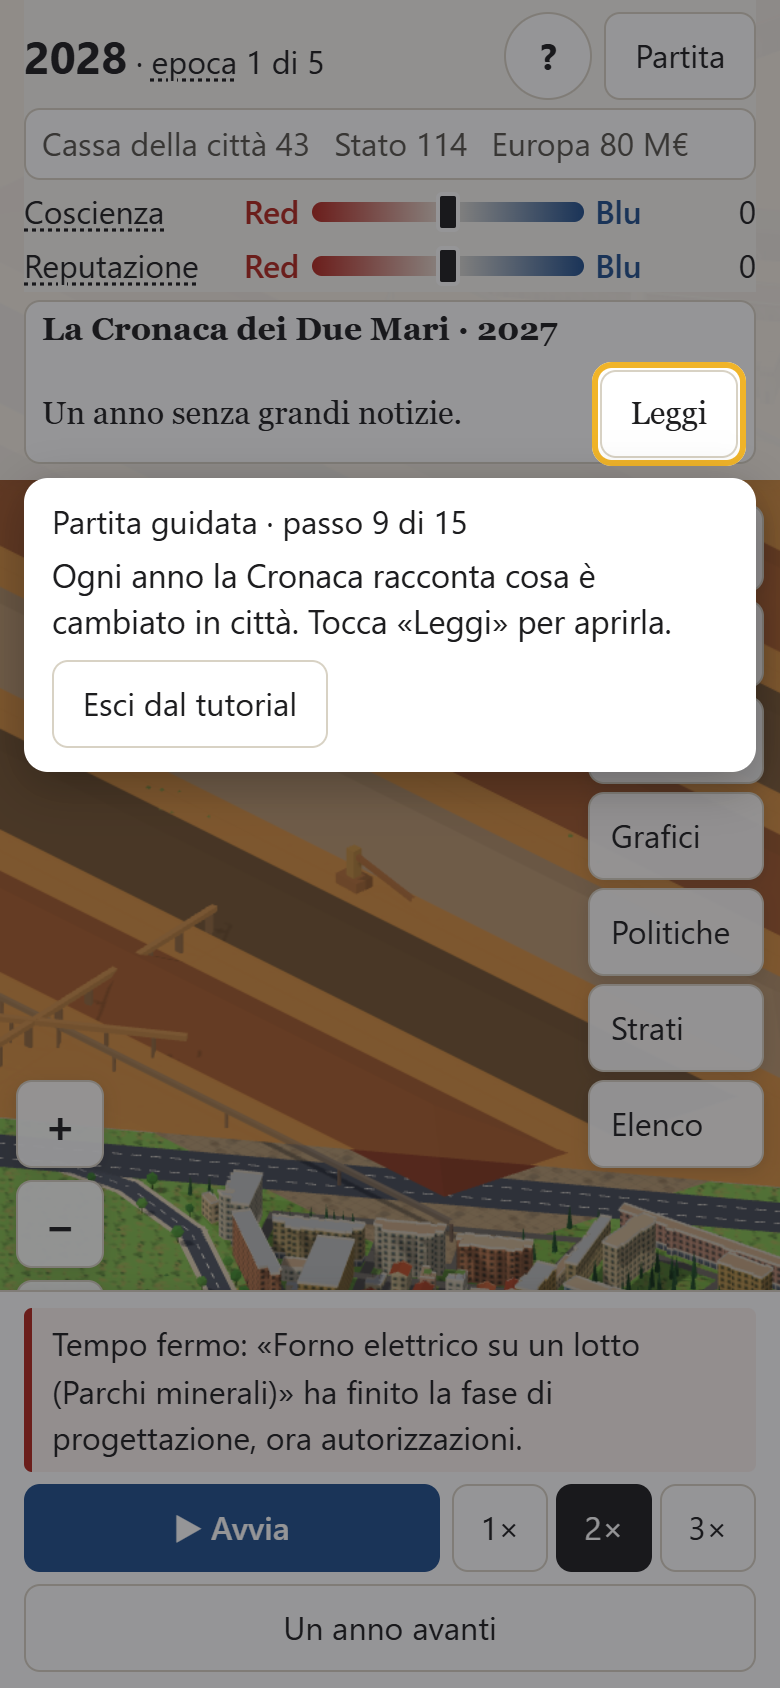
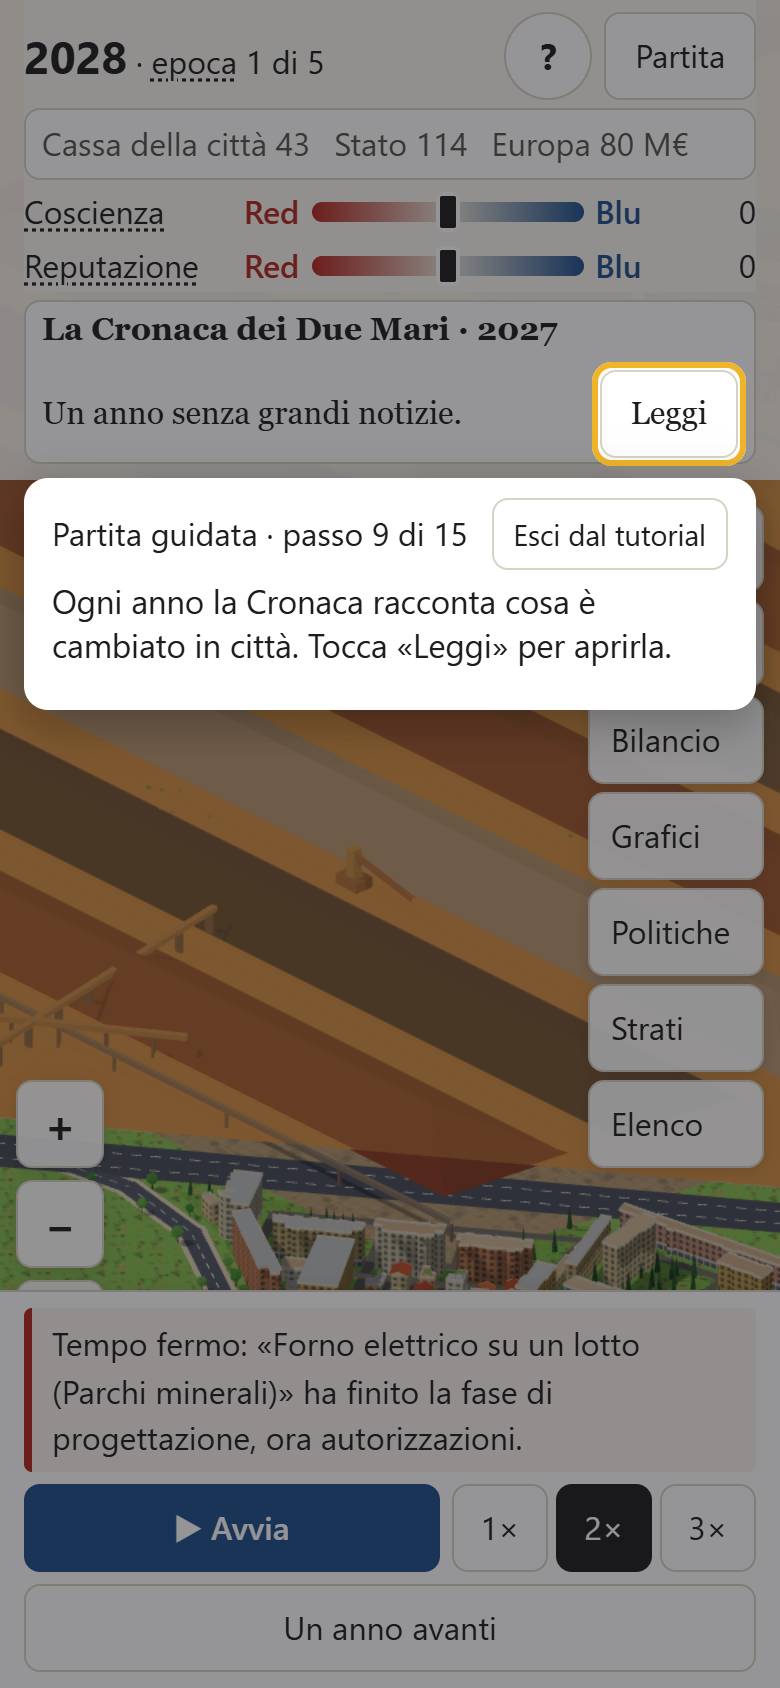
T16: fumetto dentro il dilemma, prove di visibilità, prova del seme più leggera
Nel dilemma il fumetto entra nella finestra tra le opzioni e il pulsante,
così non copre nessuna opzione; «Esci dal tutorial» sta nel titoletto;
il fumetto va sotto il comando se ci sta. La verifica controlla che il
fumetto si veda per intero e non copra le opzioni di un dilemma. Prova del
seme su tutte le strade e su tutti i lotti con meno partite simulate;
tempo di preparazione della prova della città portato a 30 secondi.

Changed region(s): [[0.0308, 0.3081, 0.9846, 0.4621]]

diff --git a/apps/game/src/tutorial.tsx b/apps/game/src/tutorial.tsx
@@ -12,6 +12,7 @@
  */
 import type { GameState } from '@taranto2127/sim';
 import { useCallback, useEffect, useLayoutEffect, useRef, useState } from 'react';
+import { createPortal } from 'react-dom';
 import { content } from './engine.js';
 
 export const tutorial = content.tutorial;
@@ -122,8 +123,13 @@ function cerca(passo: Passo): { el: HTMLElement; testid: string } | null {
   for (const testid of passo.evidenzia) {
     const el = trova(testid);
     if (el === null) continue;
-    const r = el.getBoundingClientRect();
+    let r = el.getBoundingClientRect();
     if (r.width < 1 || r.height < 1) continue;
+    // Fuori dallo schermo (per esempio in fondo a una finestra che scorre): lo si porta in vista, poi si decide.
+    if (r.top < 0 || r.bottom > window.innerHeight) {
+      el.scrollIntoView({ block: 'nearest' });
+      r = el.getBoundingClientRect();
+    }
     const x = Math.min(window.innerWidth - 1, Math.max(0, r.left + r.width / 2));
     const y = Math.min(window.innerHeight - 1, Math.max(0, r.top + r.height / 2));
     if (r.bottom < 0 || r.top > window.innerHeight || r.right < 0 || r.left > window.innerWidth) continue;
@@ -167,6 +173,8 @@ export function Tutorial({ indice, contesto, onAvanti, onEsci, onFine }: { indic
   const fumetto = useRef<HTMLDivElement>(null);
   const [rect, setRect] = useState<{ x: number; y: number; w: number; h: number; testid: string } | null>(null);
   const [pos, setPos] = useState<{ top: number; maxHeight: number } | null>(null);
+  /** Posto per il fumetto dentro una finestra (il dilemma): lì il fumetto scorre con il contenuto e non copre nulla. */
+  const [spazio, setSpazio] = useState<HTMLElement | null>(null);
   const contestoRef = useRef(contesto);
   contestoRef.current = contesto;
   const fuoco = useRef<HTMLElement | null>(null);
@@ -186,13 +194,20 @@ export function Tutorial({ indice, contesto, onAvanti, onEsci, onFine }: { indic
       setPos(null);
       return;
     }
+    // Se il comando sta in una finestra con un posto per il fumetto, il fumetto va lì.
+    const posto = b.el.closest('[data-testid="dilemma"]')?.querySelector<HTMLElement>('[data-testid="spazio-tutorial"]') ?? null;
+    setSpazio(posto);
     const r = b.el.getBoundingClientRect();
     setRect((prima) => (prima !== null && prima.testid === b.testid && Math.abs(prima.x - r.left) < 0.5 && Math.abs(prima.y - r.top) < 0.5 && Math.abs(prima.w - r.width) < 0.5 && Math.abs(prima.h - r.height) < 0.5 ? prima : { x: r.left, y: r.top, w: r.width, h: r.height, testid: b.testid }));
     const sopra = r.top - MARGINE * 2;
     const sotto = window.innerHeight - r.bottom - MARGINE * 2;
-    const alto = Math.min(fumetto.current?.scrollHeight ?? 160, Math.max(sopra, sotto));
-    const top = sotto >= sopra ? r.bottom + MARGINE : Math.max(MARGINE, r.top - MARGINE - alto);
-    setPos((prima) => (prima !== null && Math.abs(prima.top - top) < 0.5 && Math.abs(prima.maxHeight - Math.max(sopra, sotto)) < 0.5 ? prima : { top, maxHeight: Math.max(sopra, sotto) }));
+    const pieno = fumetto.current?.scrollHeight ?? 120;
+    // Sotto il comando se il fumetto ci sta per intero (di solito lì c'è spazio libero), poi sopra, poi dalla parte più larga.
+    const giu = pieno <= sotto || (pieno > sopra && sotto >= sopra);
+    const alto = Math.min(pieno, giu ? sotto : sopra);
+    const top = giu ? r.bottom + MARGINE : Math.max(MARGINE, r.top - MARGINE - alto);
+    const massimo = giu ? sotto : sopra;
+    setPos((prima) => (prima !== null && Math.abs(prima.top - top) < 0.5 && Math.abs(prima.maxHeight - massimo) < 0.5 ? prima : { top, maxHeight: massimo }));
     // Il fuoco da tastiera va sul comando, una volta per comando.
     if (fuoco.current !== b.el) {
       fuoco.current = b.el;
@@ -214,48 +229,64 @@ export function Tutorial({ indice, contesto, onAvanti, onEsci, onFine }: { indic
     };
   }, [controlla, misura]);
 
+  const contenuto = (
+    <>
+      <div className="tutorial-testa">
+        <p className="kicker">
+          Partita guidata · passo {indice + 1} di {tutorial.passi.length}
+        </p>
+        <button type="button" className="tutorial-esci" onClick={onEsci} data-testid="tutorial-esci">
+          Esci dal tutorial
+        </button>
+      </div>
+      {rect !== null && CHIUSURE.has(rect.testid) && passo.evidenzia[0] !== rect.testid && (
+        <p className="tutorial-testo tutorial-prima" data-testid="tutorial-prima-chiudi">
+          {tutorial.primaChiudi}
+        </p>
+      )}
+      <p className="tutorial-testo">{passo.testo}</p>
+      {ultimo && (
+        <div className="buttons">
+          <button type="button" className="primary" onClick={onFine} data-testid="tutorial-fine">
+            Fine
+          </button>
+        </div>
+      )}
+    </>
+  );
+  const attributi = {
+    ref: fumetto,
+    role: 'dialog',
+    'aria-modal': false,
+    'aria-label': 'Partita guidata',
+    'aria-live': 'polite' as const,
+    'data-testid': 'tutorial',
+    'data-passo': passo.id,
+    'data-bersaglio': rect?.testid ?? '',
+  };
+
   return (
     <>
       {rect !== null && (
         <div
-          className="tutorial-evidenza"
+          className={spazio !== null ? 'tutorial-evidenza senza-ombra' : 'tutorial-evidenza'}
           data-testid="tutorial-evidenza"
           aria-hidden="true"
           style={{ left: rect.x - 4, top: rect.y - 4, width: rect.w + 8, height: rect.h + 8 }}
         />
       )}
-      <div
-        ref={fumetto}
-        className="tutorial-fumetto"
-        role="dialog"
-        aria-modal="false"
-        aria-label="Partita guidata"
-        aria-live="polite"
-        data-testid="tutorial"
-        data-passo={passo.id}
-        data-bersaglio={rect?.testid ?? ''}
-        style={pos === null ? { bottom: MARGINE } : { top: pos.top, maxHeight: pos.maxHeight }}
-      >
-        <p className="kicker">
-          Partita guidata · passo {indice + 1} di {tutorial.passi.length}
-        </p>
-        {rect !== null && CHIUSURE.has(rect.testid) && passo.evidenzia[0] !== rect.testid && (
-          <p className="tutorial-testo tutorial-prima" data-testid="tutorial-prima-chiudi">
-            {tutorial.primaChiudi}
-          </p>
+      {spazio !== null
+        ? createPortal(
+            <div {...attributi} className="tutorial-fumetto tutorial-in-finestra">
+              {contenuto}
+            </div>,
+            spazio,
+          )
+        : (
+          <div {...attributi} className="tutorial-fumetto" style={pos === null ? { bottom: MARGINE } : { top: pos.top, maxHeight: pos.maxHeight }}>
+            {contenuto}
+          </div>
         )}
-        <p className="tutorial-testo">{passo.testo}</p>
-        <div className="buttons">
-          {ultimo && (
-            <button type="button" className="primary" onClick={onFine} data-testid="tutorial-fine">
-              Fine
-            </button>
-          )}
-          <button type="button" onClick={onEsci} data-testid="tutorial-esci">
-            Esci dal tutorial
-          </button>
-        </div>
-      </div>
     </>
   );
 }

diff --git a/apps/game/src/tutorial.test.ts b/apps/game/src/tutorial.test.ts
@@ -14,31 +14,39 @@ import { fatto, tutorial, type Contesto } from './tutorial.js';
 const STRADE = ['green-steel', 'remediation', 'energy', 'sea-culture'] as const;
 
 describe('seme della partita guidata', { timeout: 60_000 }, () => {
-  it('con qualunque lotto e strada: il cantiere cambia fase entro la fine del primo anno, il primo dilemma arriva alla fine del secondo (mai prima), la Cronaca ha titoli ogni anno', () => {
+  it('con ogni strada e ogni lotto: il cantiere cambia fase alla fine del primo anno, il primo dilemma arriva alla fine del secondo (mai prima)', () => {
     const lotti = newGame(tutorial.seme).state.plantLots.map((l) => l.id);
     expect(lotti.length).toBe(6);
-    for (const lotto of lotti) {
-      for (const strada of STRADE) {
-        let g = newGame(tutorial.seme);
-        g = act(g, { kind: 'convert-lot', lotId: lotto, path: strada });
-        const fase0 = g.state.projects.find((p) => p.lotId === lotto)!.phase;
-        let dilemma = -1;
-        let fase = -1;
-        for (let anno = 1; anno <= 5; anno++) {
-          const r = closeYear(g);
-          g = r.game;
-          expect(r.headlines.length, `${lotto} ${strada} anno ${anno}: Cronaca`).toBeGreaterThan(0);
-          if (g.state.openDilemmaId !== null) {
-            if (dilemma < 0) dilemma = g.state.turn;
-            const id = g.state.openDilemmaId;
-            g = act(g, { kind: 'answer-dilemma', dilemmaId: id, optionId: Object.keys(content.rules.dilemmas[id]!.options)[0]! });
-          }
-          if (fase < 0 && g.state.projects.find((p) => p.lotId === lotto)!.phase !== fase0) fase = g.state.turn;
+    // Le quattro strade sul primo lotto, e una strada (a giro) su ciascuno degli altri: la durata dei progetti non dipende dal lotto.
+    const casi: [string, (typeof STRADE)[number]][] = [...STRADE.map((s) => [lotti[0]!, s] as [string, (typeof STRADE)[number]]), ...lotti.slice(1).map((l, i) => [l, STRADE[i % 4]!] as [string, (typeof STRADE)[number]])];
+    for (const [lotto, strada] of casi) {
+      let g = newGame(tutorial.seme);
+      g = act(g, { kind: 'convert-lot', lotId: lotto, path: strada });
+      const fase0 = g.state.projects.find((p) => p.lotId === lotto)!.phase;
+      let dilemma = -1;
+      let fase = -1;
+      for (let anno = 1; anno <= 3; anno++) {
+        g = closeYear(g).game;
+        if (g.state.openDilemmaId !== null && dilemma < 0) {
+          dilemma = g.state.turn;
+          const id = g.state.openDilemmaId;
+          g = act(g, { kind: 'answer-dilemma', dilemmaId: id, optionId: Object.keys(content.rules.dilemmas[id]!.options)[0]! });
         }
-        const msg = `${lotto} ${strada}`;
-        expect(fase, `${msg}: cambio di fase`).toBe(1);
-        expect(dilemma, `${msg}: primo dilemma`).toBe(2);
+        if (fase < 0 && g.state.projects.find((p) => p.lotId === lotto)!.phase !== fase0) fase = g.state.turn;
       }
+      expect(fase, `${lotto} ${strada}: cambio di fase`).toBe(1);
+      expect(dilemma, `${lotto} ${strada}: primo dilemma`).toBe(2);
+    }
+  });
+
+  it('la Cronaca ha titoli ogni anno dei primi cinque', () => {
+    let g = act(newGame(tutorial.seme), { kind: 'convert-lot', lotId: 'lotto-parchi-minerali', path: 'remediation' });
+    for (let anno = 1; anno <= 5; anno++) {
+      const r = closeYear(g);
+      g = r.game;
+      expect(r.headlines.length, `anno ${anno}`).toBeGreaterThan(0);
+      const id = g.state.openDilemmaId;
+      if (id !== null) g = act(g, { kind: 'answer-dilemma', dilemmaId: id, optionId: Object.keys(content.rules.dilemmas[id]!.options)[0]! });
     }
   });
 

diff --git a/apps/game/scripts/verifica.ts b/apps/game/scripts/verifica.ts
@@ -1379,9 +1379,16 @@ async function controllaPasso(page: Page, dove: string, bersaglio: string): Prom
       dentro: a.left >= -1 && a.top >= -1 && a.right <= window.innerWidth + 1 && a.bottom <= window.innerHeight + 1,
       coperto: !(a.right <= c.left || a.left >= c.right || a.bottom <= c.top || a.top >= c.bottom),
       inCima: sopra !== null && (el.contains(sopra) || sopra.contains(el)),
+      // Il fumetto si legge: tutto sullo schermo e alto almeno quanto due righe e il pulsante.
+      fumettoVisibile: c.top >= -1 && c.bottom <= window.innerHeight + 1 && c.height >= 60 && c.width >= 200,
+      // Con un dilemma aperto, il fumetto non copre nessuna opzione: tutte devono poter essere scelte.
+      copreOpzione: [...document.querySelectorAll('[data-testid="opzione"]')].some((o) => {
+        const q = o.getBoundingClientRect();
+        return !(q.right <= c.left || q.left >= c.right || q.bottom <= c.top || q.top >= c.bottom);
+      }),
       fuoco: document.activeElement === el || el.contains(document.activeElement),
       // Comandi che possono ricevere il fuoco da tastiera (un pulsante, un collegamento, un campo).
-      focusabile: el.matches('button, a[href], input, select, textarea, [tabindex]:not([tabindex="-1"])'),
+      focusabile: el.matches('button, a[href], input, select, textarea, [tabindex]:not([tabindex="-1"])') && !el.matches(':disabled'),
       // Niente animazioni né transizioni, anche con «riduci animazioni».
       animato: [f, document.querySelector('[data-testid="tutorial-evidenza"]')].some((x) => {
         if (x === null) return false;
@@ -1395,6 +1402,8 @@ async function controllaPasso(page: Page, dove: string, bersaglio: string): Prom
     if (!r.dentro) fail(`${dove}: il comando «${bersaglio}» esce dallo schermo`);
     if (r.coperto) fail(`${dove}: il fumetto copre il comando «${bersaglio}»`);
     if (!r.inCima) fail(`${dove}: il comando «${bersaglio}» è coperto da altro`);
+    if (!r.fumettoVisibile) fail(`${dove}: il fumetto non si vede per intero sullo schermo`);
+    if (r.copreOpzione) fail(`${dove}: il fumetto copre un'opzione del dilemma`);
     if (r.focusabile && !r.fuoco) fail(`${dove}: il fuoco da tastiera non è sul comando «${bersaglio}»`);
     if (r.animato) fail(`${dove}: il fumetto o l'evidenza hanno un'animazione`);
   }
@@ -1403,7 +1412,7 @@ async function controllaPasso(page: Page, dove: string, bersaglio: string): Prom
 /** Fa l'azione che il passo chiede sul comando evidenziato. */
 async function azionePasso(page: Page, bersaglio: string): Promise<void> {
   if (bersaglio === 'strade-lotto') await page.locator(`${sel('strade-lotto')} button`).first().click();
-  else if (bersaglio === 'dilemma') {
+  else if (bersaglio === 'dilemma' || bersaglio === 'scegli') {
     await page.locator(sel('opzione')).first().click();
     await click(page, 'scegli');
   } else if (bersaglio === 'aiuto') await click(page, 'tutorial-fine');

diff --git a/apps/game/src/styles.css b/apps/game/src/styles.css
@@ -405,3 +405,30 @@ button.link-button { display: inline; min-height: 0; padding: 0; border: 0; back
 .tutorial-prima {
   font-weight: 600;
 }
+.tutorial-testa {
+  display: flex;
+  align-items: center;
+  justify-content: space-between;
+  gap: 8px;
+  margin-bottom: 4px;
+}
+.tutorial-testa .kicker {
+  margin: 0;
+}
+.tutorial-esci {
+  flex: none;
+  min-height: 36px;
+  padding: 4px 10px;
+  font-size: 0.9rem;
+}
+/* Nel dilemma il fumetto sta dentro la finestra, nel flusso del testo: non copre opzioni né pulsanti. */
+.tutorial-fumetto.tutorial-in-finestra {
+  position: static;
+  margin: 10px 0;
+  max-width: none;
+  box-shadow: 0 0 0 3px #f0b429;
+}
+/* Con il fumetto dentro una finestra in primo piano (il dilemma) niente ombra: resta solo il riquadro. */
+.tutorial-evidenza.senza-ombra {
+  box-shadow: none;
+}

diff --git a/apps/game/src/cards.tsx b/apps/game/src/cards.tsx
@@ -388,6 +388,8 @@ export function DilemmaCard({ state, onAnswer }: { state: GameState; onAnswer: (
             </button>
           );
         })}
+        {/* Posto per il fumetto della partita guidata (T16): dentro la finestra, tra le opzioni e il pulsante, così non copre nulla. */}
+        <div className="spazio-tutorial" data-testid="spazio-tutorial" />
         <div className="buttons">
           <button type="button" className="primary" disabled={chosen === null} onClick={() => chosen !== null && onAnswer(chosen)} data-testid="scegli">
             Scegli questa opzione

diff --git a/apps/game/src/iso/citta.test.ts b/apps/game/src/iso/citta.test.ts
@@ -38,12 +38,13 @@ class Celle<T extends { ring: Pt[] }> {
 
 let citta: Citta;
 const meshes: THREE.Mesh[] = [];
+// La città intera si costruisce in 3-5 secondi; con le altre prove in parallelo e il computer carico supera i 10 di serie.
 beforeAll(() => {
   citta = costruisciCitta();
   citta.gruppo.traverse((o) => {
     if (o instanceof THREE.Mesh) meshes.push(o);
   });
-});
+}, 30_000);
 
 const triangoli = (m: THREE.Mesh) => (m.geometry.getAttribute('position').count / 3) * (m instanceof THREE.InstancedMesh ? m.count : 1);
 

diff --git a/docs/GRAFICA.md b/docs/GRAFICA.md
@@ -44,9 +44,12 @@ porto, della Città Vecchia e del Borgo.
   guidata».
 - **Un passo alla volta** (`tutorial.tsx`, `Tutorial`): un riquadro giallo di 3 pixel attorno
   al comando da toccare e il resto scurito al 45% (un'ombra che non blocca i tocchi); un
-  fumetto con «Partita guidata · passo N di 15», il testo e «Esci dal tutorial». Il fumetto
-  sta sopra o sotto il comando, dove c'è più spazio, e non lo copre mai; se lo spazio è poco,
-  il testo scorre. Il comando evidenziato è il primo dell'elenco del passo che è sullo schermo
+  fumetto con «Partita guidata · passo N di 15» e, sulla stessa riga, «Esci dal tutorial»,
+  poi il testo. Il fumetto va sotto il comando se ci sta per intero, altrimenti sopra, altrimenti
+  dalla parte più larga (il testo scorre); non copre mai il comando. Nel dilemma il fumetto
+  entra nella finestra, tra le opzioni e «Scegli questa opzione», e scorre con il contenuto:
+  non copre nessuna opzione, e lì l'ombra non c'è (il dilemma è già in primo piano). Un comando
+  in fondo a una finestra che scorre viene portato in vista. Il comando evidenziato è il primo dell'elenco del passo che è sullo schermo
   e non è coperto da altro: sul telefono, se una finestra copre il pulsante, si evidenzia
   «Chiudi» e il fumetto aggiunge «Prima chiudi la finestra aperta: il comando che serve è
   sotto».
@@ -68,7 +71,8 @@ porto, della Città Vecchia e del Borgo.
 - **Prove nel browser** (`scripts/verifica.ts --t16`, anche nella verifica completa): una
   partita da copione completa il tutorial a 360, 390 e 1280 px, con la città 3D e con la mappa
   schematica; a ogni passo il comando è sullo schermo, in cima, non coperto dal fumetto, con
-  il fuoco se può riceverlo, senza animazioni; alla fine la partita è al 2032. Uscita e ripresa
+  il fuoco se può riceverlo (non se è disabilitato), senza animazioni; il fumetto si vede per
+  intero e non copre le opzioni di un dilemma; alla fine la partita è al 2032. Uscita e ripresa
   da «?», anche dopo una ricarica. Schermate di ogni passo a 390 px:
   `docs/schermate/t16-passo-NN-<passo>-390.png`, e la scelta all'avvio `t16-scelta-390.png`.
 
